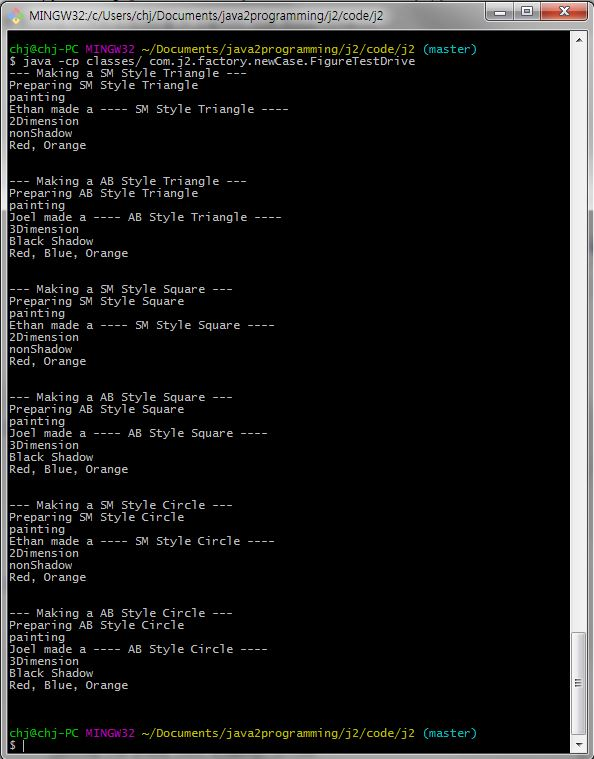
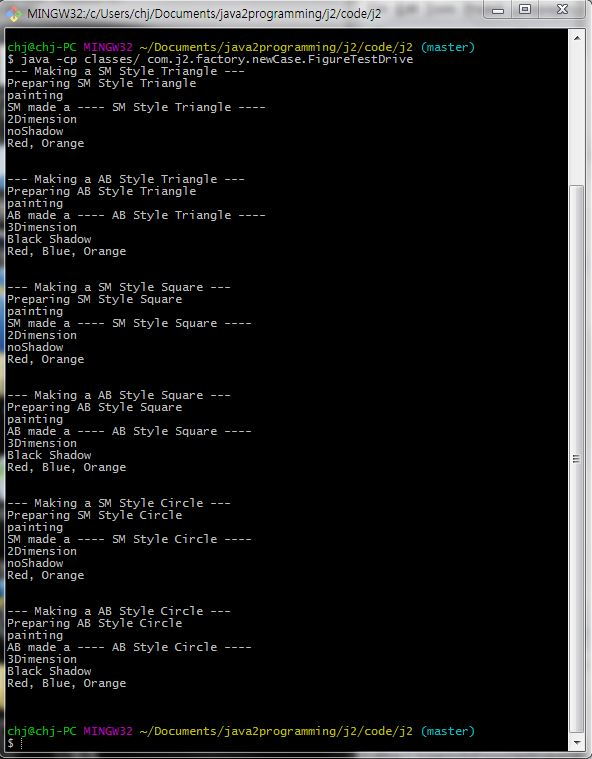
factory

Changed region(s): [[0.0, 0.0, 1.0, 1.0]]

diff --git a/src/com/j2/factory/newCase/FigureTestDrive.java b/src/com/j2/factory/newCase/FigureTestDrive.java
@@ -8,22 +8,22 @@ public class FigureTestDrive {
   FigureStore abStore = new ABFigureStore();
  
   Figure figure = smStore.orderFigure("triangle");
-  System.out.println("Ethan made a " + figure + "\n");
+  System.out.println("SM made a " + figure + "\n");
  
   figure = abStore.orderFigure("triangle");
-  System.out.println("Joel made a " + figure + "\n");
+  System.out.println("AB made a " + figure + "\n");
 
   figure = smStore.orderFigure("square");
-  System.out.println("Ethan made a " + figure + "\n");
+  System.out.println("SM made a " + figure + "\n");
  
   figure = abStore.orderFigure("square");
-  System.out.println("Joel made a " + figure + "\n");
+  System.out.println("AB made a " + figure + "\n");
 
   figure = smStore.orderFigure("circle");
-  System.out.println("Ethan made a " + figure + "\n");
+  System.out.println("SM made a " + figure + "\n");
  
   figure = abStore.orderFigure("circle");
-  System.out.println("Joel made a " + figure + "\n");
+  System.out.println("AB made a " + figure + "\n");
 
  }
 }

diff --git a/src/com/j2/factory/newCase/SMAttributeFactory.java b/src/com/j2/factory/newCase/SMAttributeFactory.java
@@ -7,7 +7,7 @@ public class SMAttributeFactory implements FigureAttributeFactory {
  }
  
  public Shadow createShadow() {
-  return new nonShadow();
+  return new noShadow();
  }
 
  

diff --git a/src/com/j2/factory/newCase/noShadow.java b/src/com/j2/factory/newCase/noShadow.java
@@ -1,0 +1,7 @@
+package com.j2.factory.newCase;
+
+public class noShadow implements Shadow {
+ public String toString() {
+  return "noShadow";
+ }
+}
